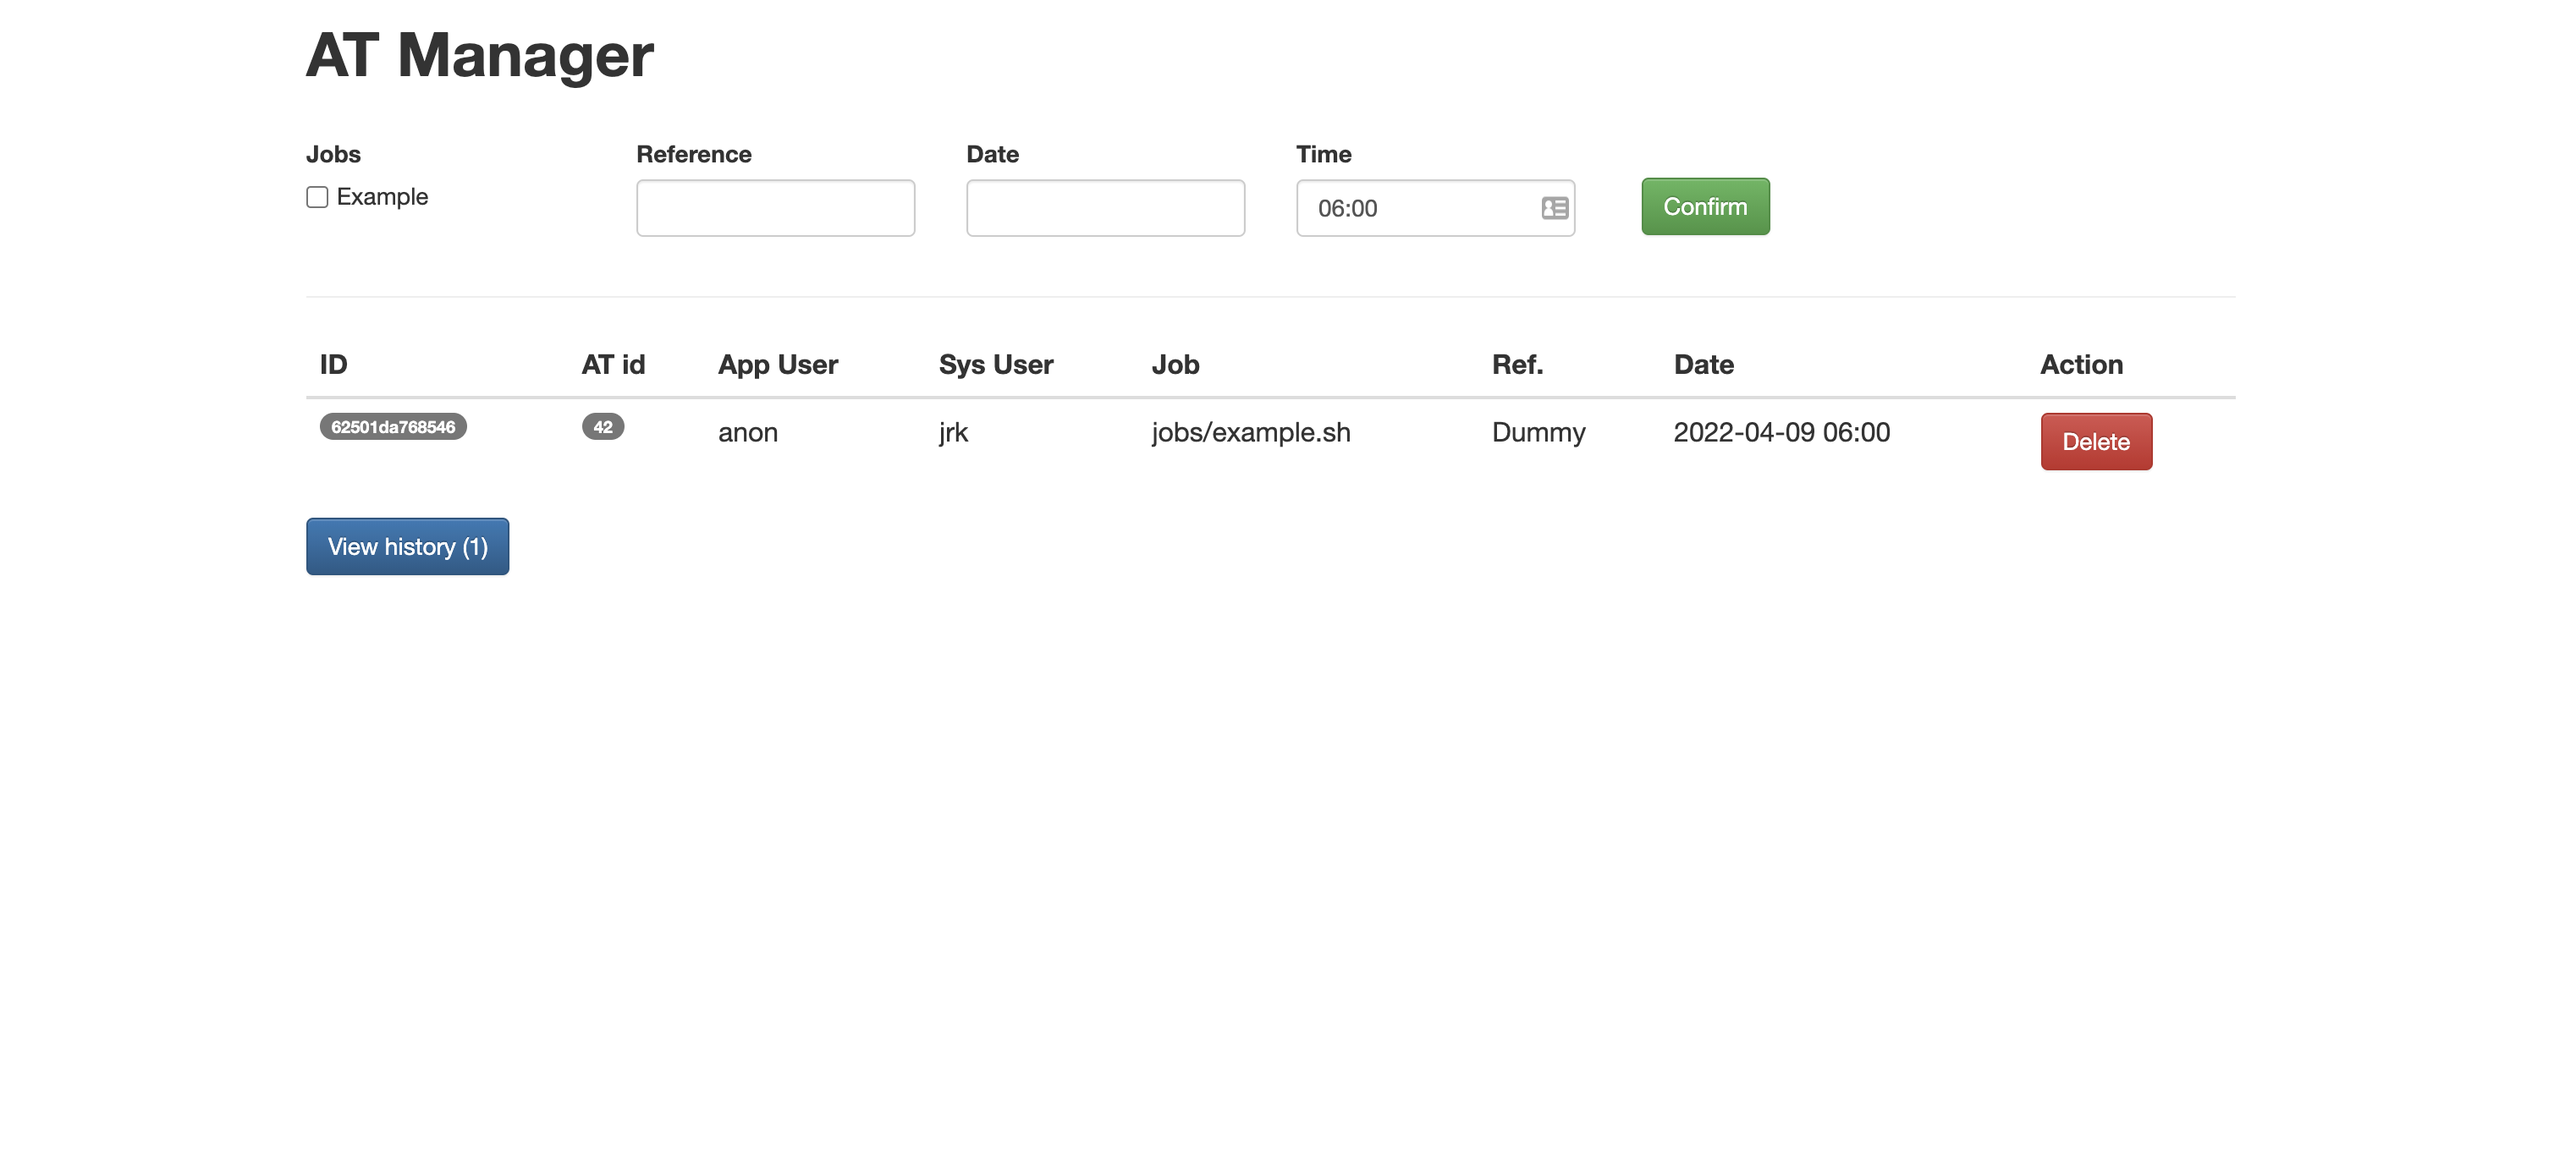
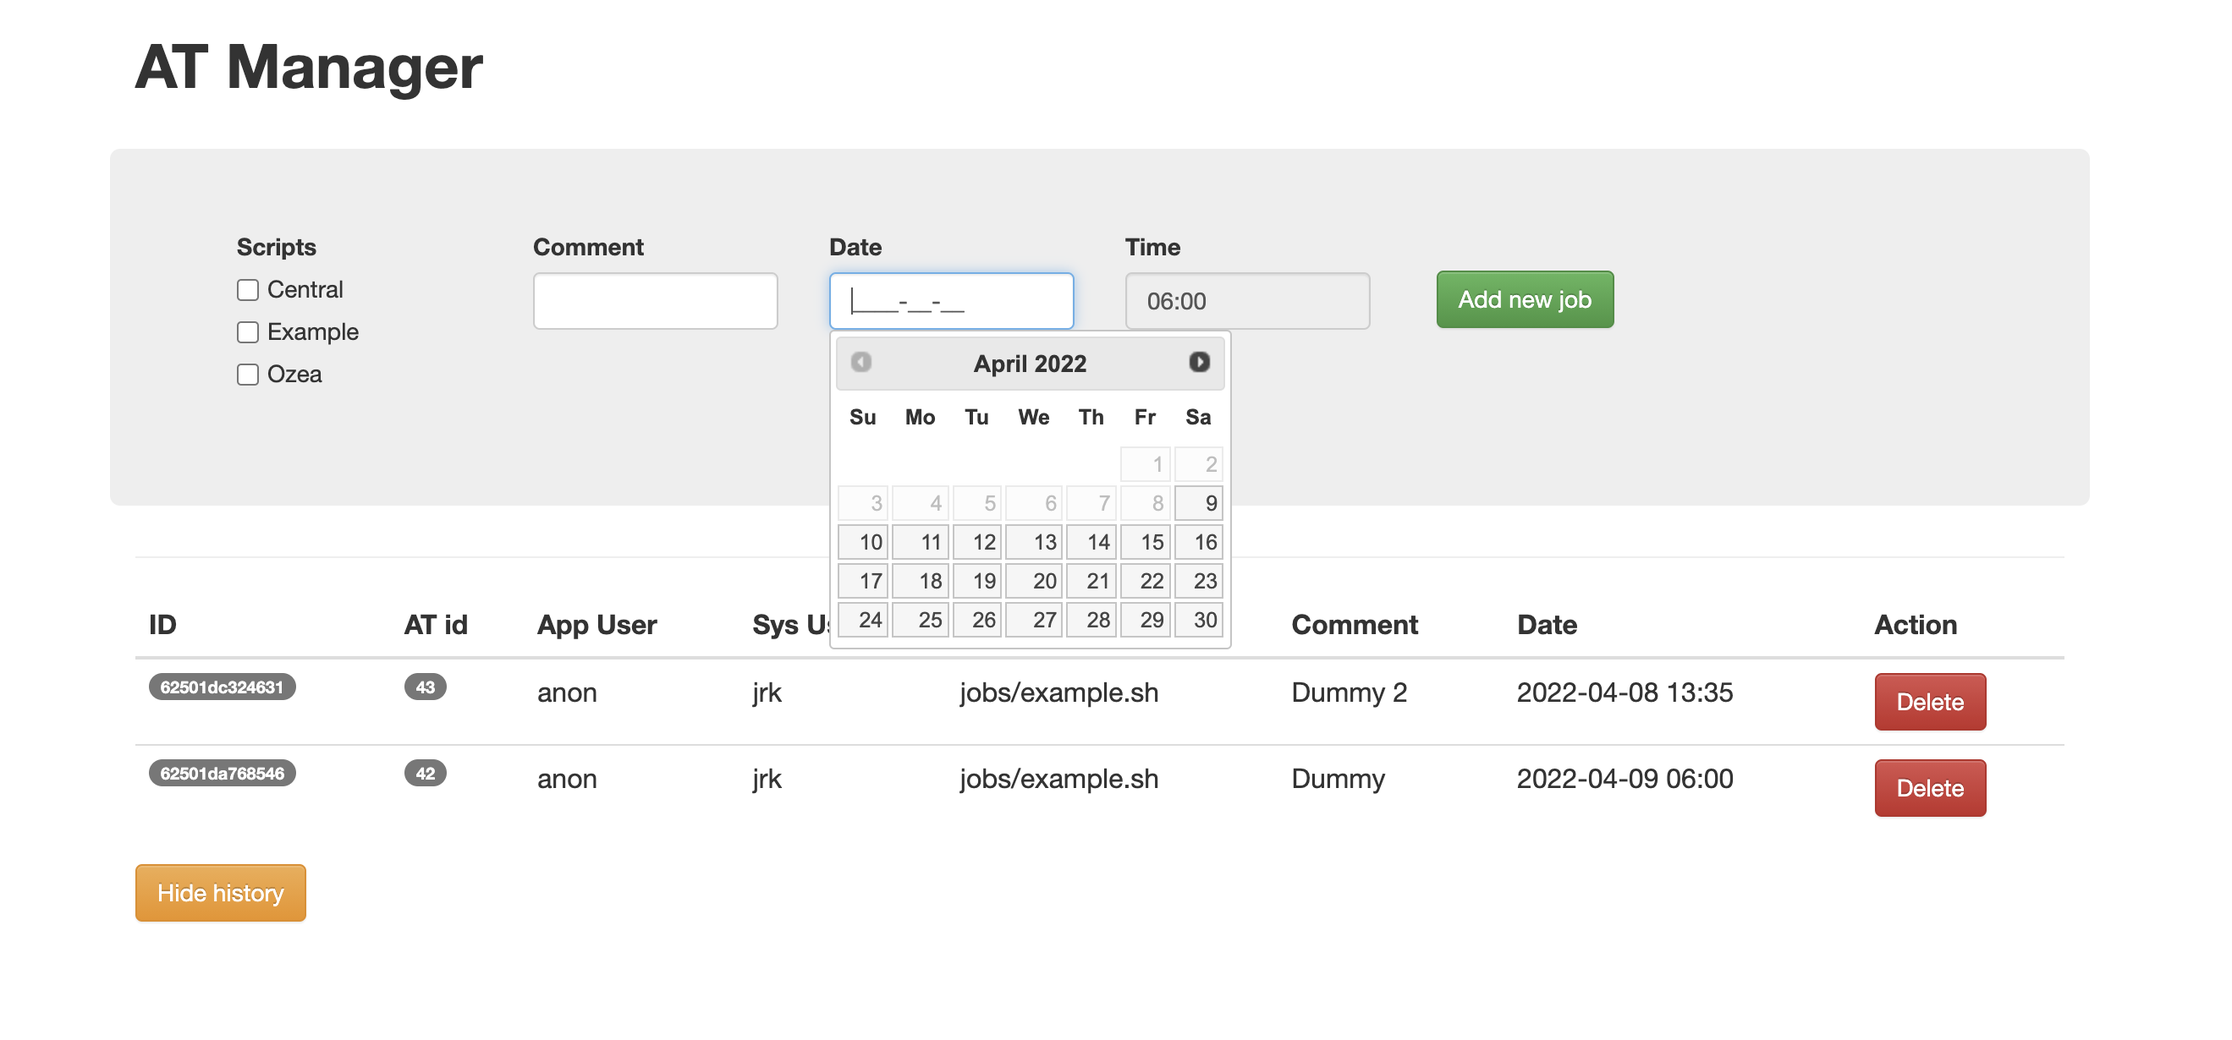
pw

diff --git a/index.php b/index.php
@@ -131,7 +131,7 @@
             <h1><strong><?php echo C_APP_TITLE; ?></strong></h1>
             <br />
 
-            <div class="row">
+            <div class="row jumbotron">
 
                 <?php if (!empty($errors)) { ?>
                     <div class="col-lg-12">
@@ -151,7 +151,7 @@
                         <div class="form-group">
                             <div style="display: flex; flex-direction: column">
                                 <label for="">
-                                    Jobs
+                                    Scripts
                                 </label>
                                 <?php foreach($availableJobScripts as $job) { ?>
                                     <div style="display: flex; flex-direction: row">
@@ -195,7 +195,7 @@
                     <?php } ?>
 
                     <button type="submit" class="btn btn-success" style="margin-top:24px;margin-left:24px;">
-                        Confirm
+                        Add new job
                     </button>
                 </form>
             </div>
